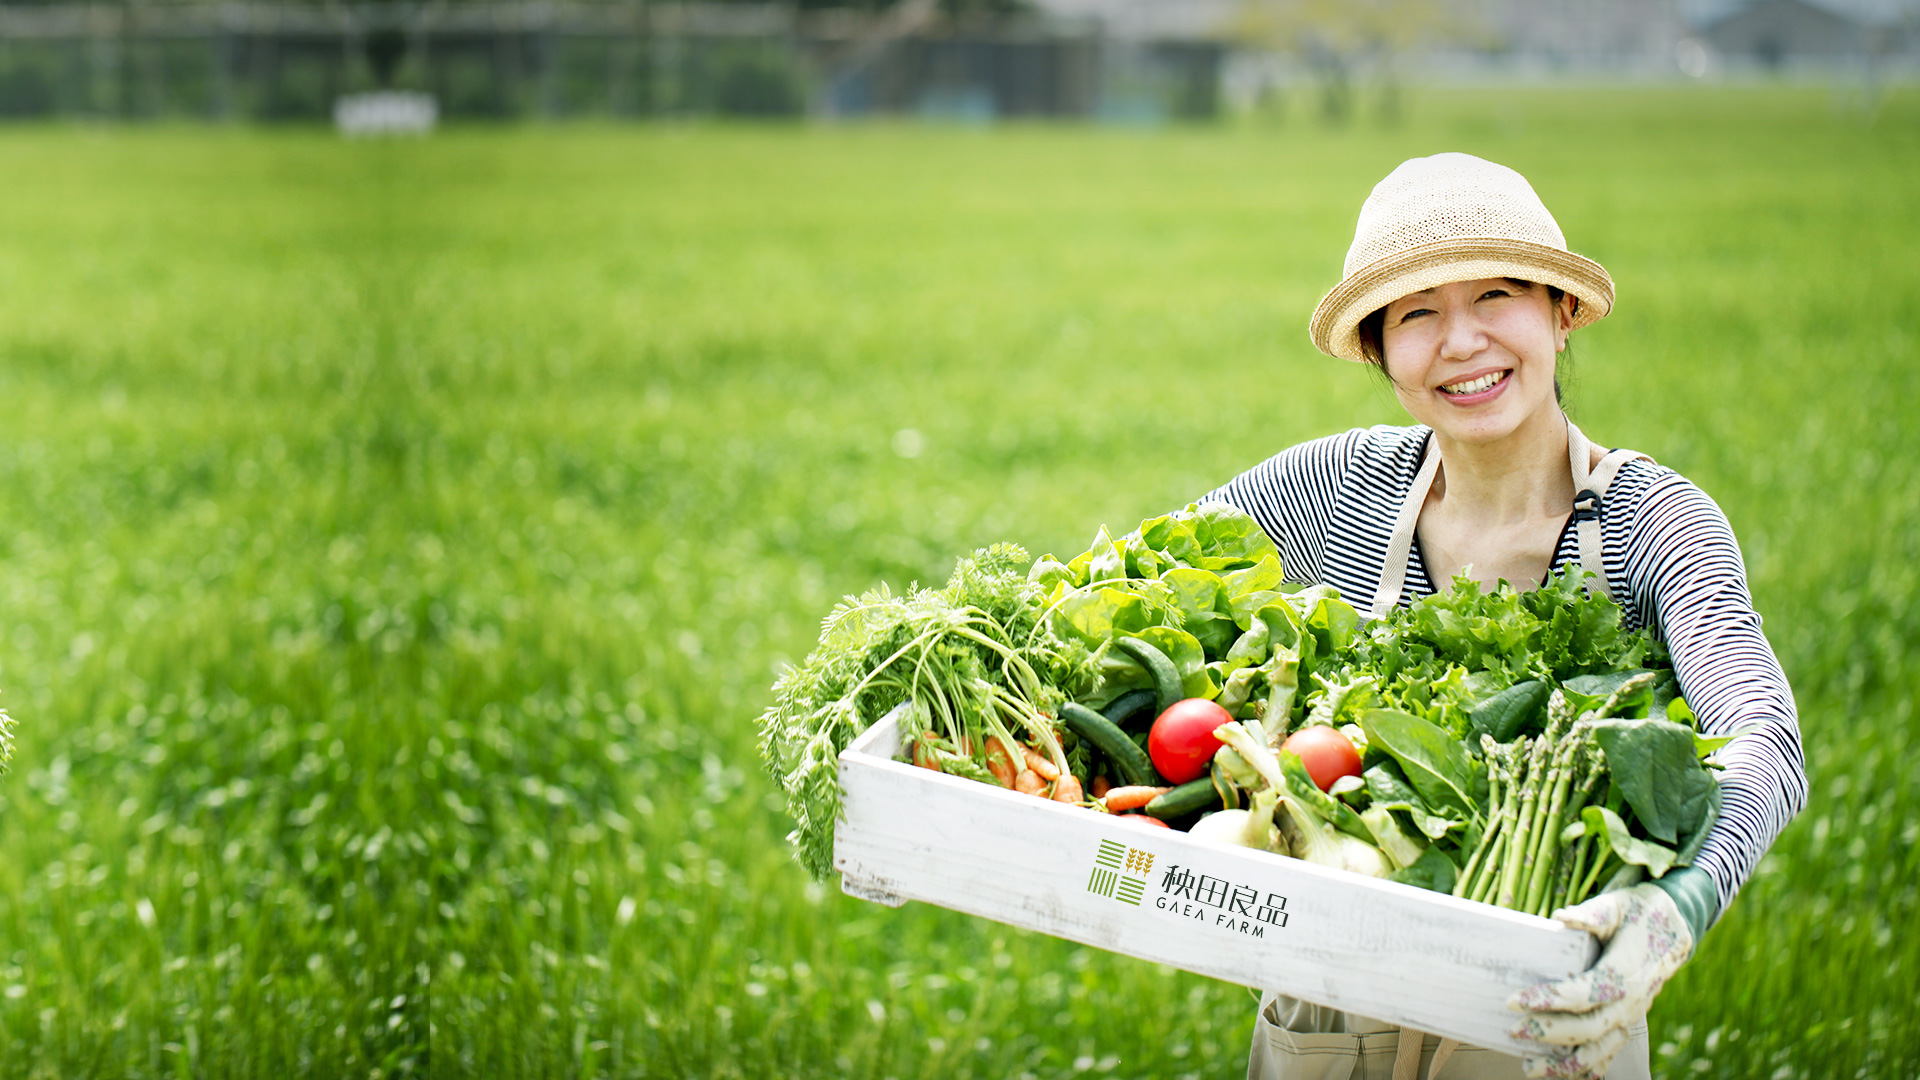
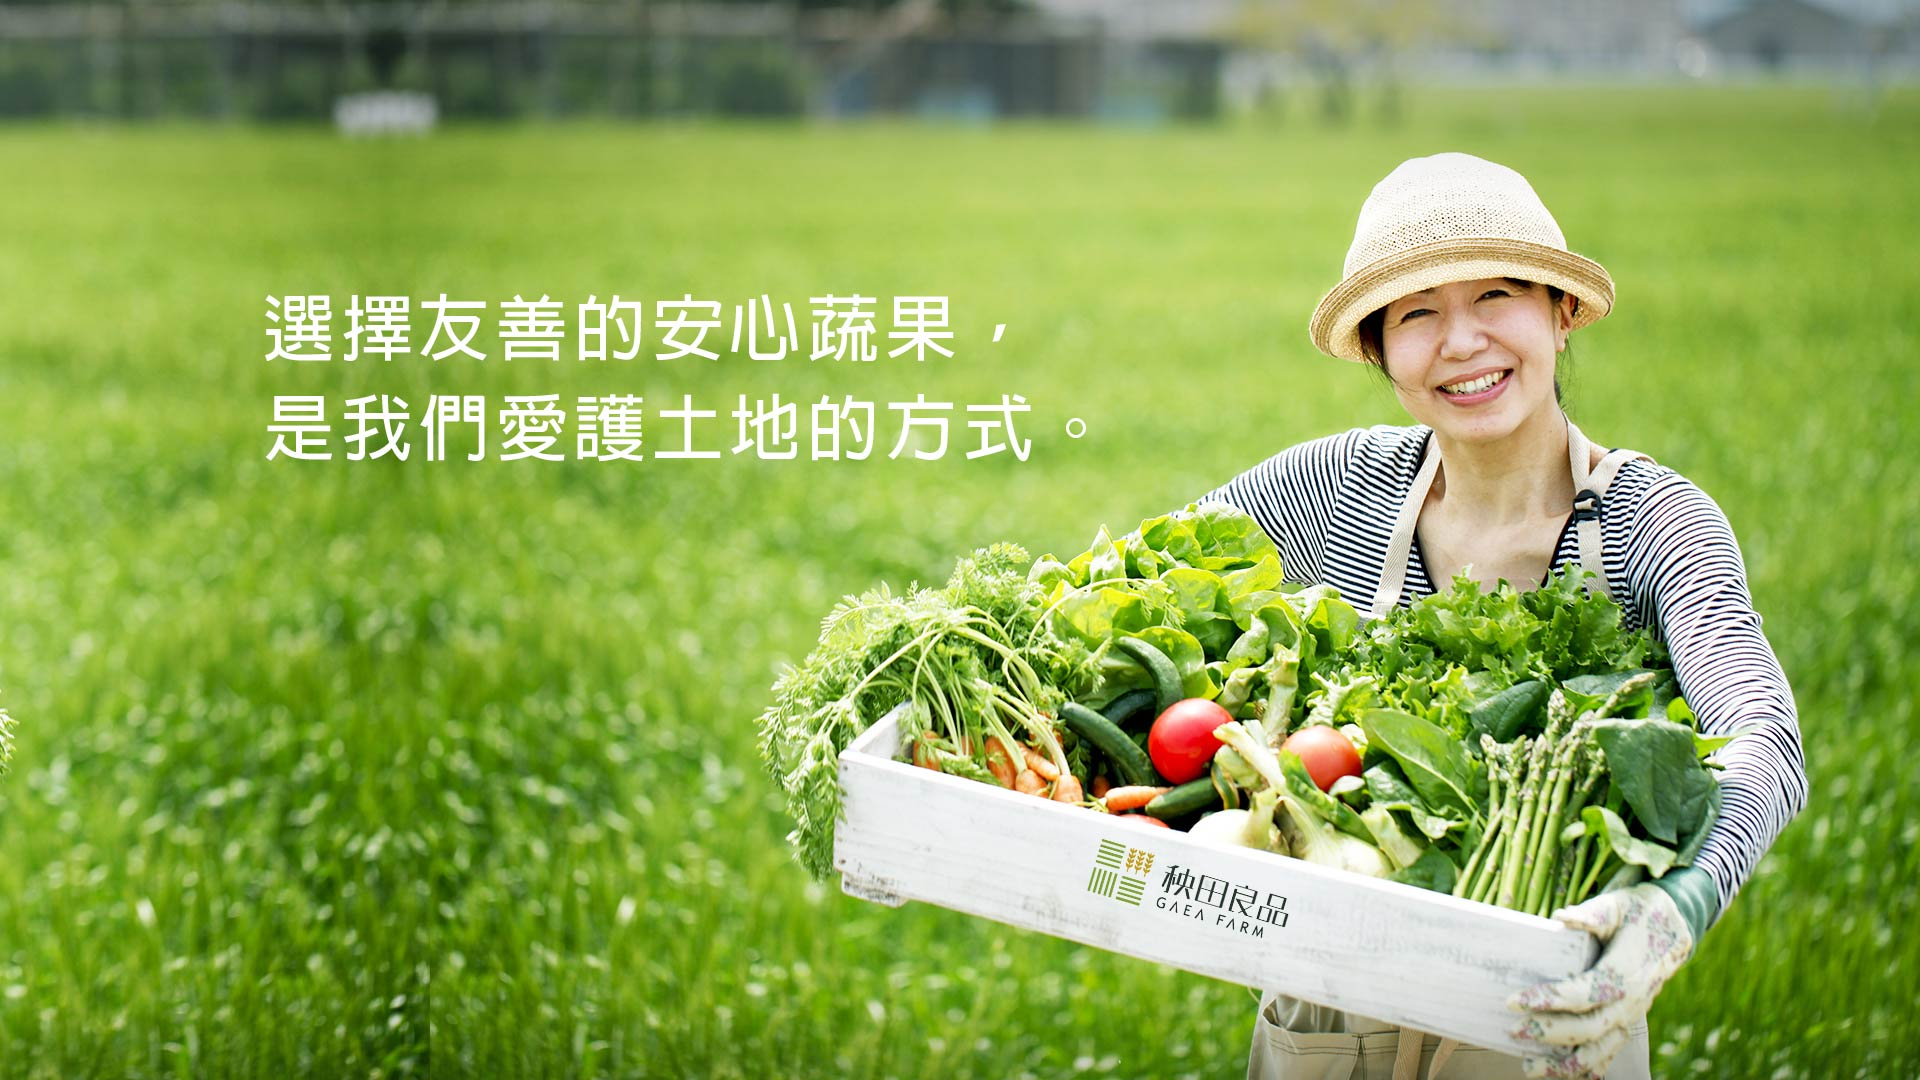
carousel fisnish

diff --git a/src/pages/homePage/HomePage.js b/src/pages/homePage/HomePage.js
@@ -312,8 +312,6 @@ function HomePage(props) {
             <div>
               <div className="homepage-banner-wrap">
                 <div className="banner2 d-flex flex-column text-left">
-                  <p className="float-left homePage-p1">選擇友善的安心蔬果，</p>
-                  <p className="float-left">是我們愛護土地的方式。</p>
                 </div>
               </div>
             </div>
@@ -343,8 +341,8 @@ function HomePage(props) {
             <div className="homePage-col-download"></div>
           </div>
           {/* 滾動提示 */}
-          <button className="position-absolute homePage-mouse"></button>
-          <div className="position-absolute homePage-mouse-arrow"></div>
+          {/* <button className="position-absolute homePage-mouse"></button>
+          <div className="position-absolute homePage-mouse-arrow"></div> */}
           {/* 切換鈕 */}
         </div>
         {/* </div> */}

diff --git a/src/pages/homePage/homePage.scss b/src/pages/homePage/homePage.scss
@@ -63,7 +63,8 @@ $deepYello: #f5a016;
 .ant-carousel .slick-dots-bottom {
 }
 
-.slick-slider > ul {
+.ant-carousel .slick-dots-bottom {
+  margin-bottom: 40px;
 }
 
 .homePage-index-carousel-wrap {
